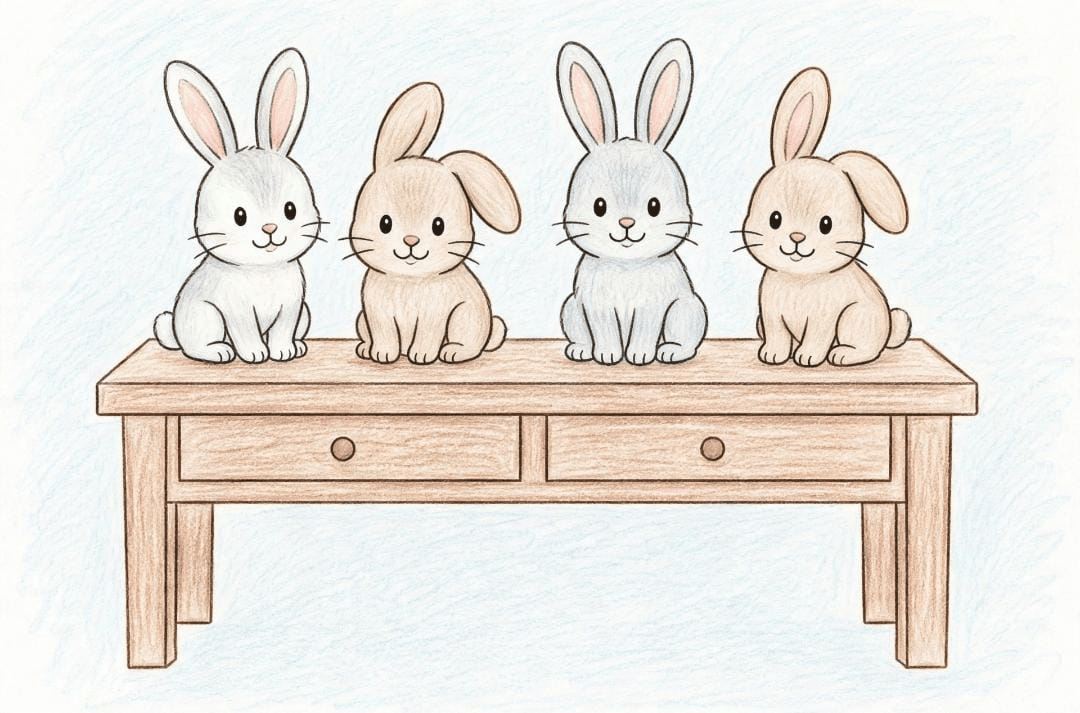
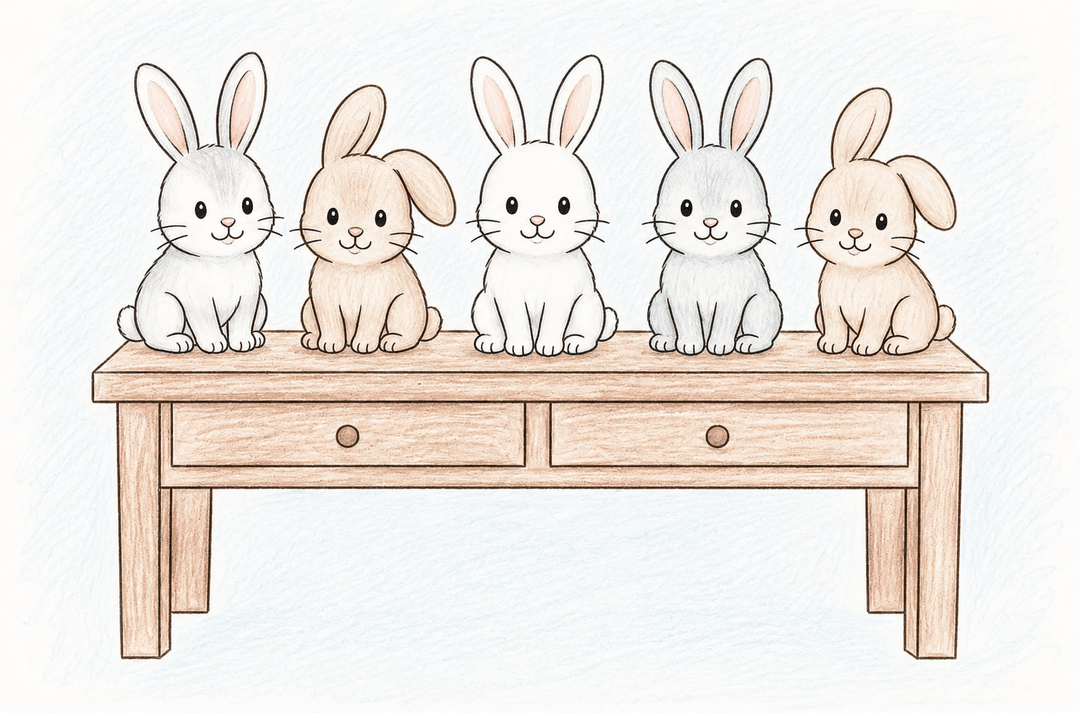
Conejos: la escena ahora tiene cinco y la respuesta pasa a FIVE (v1.40.2)
La nueva imagen coloreada del escritorio suma un conejo (cinco en total),
así que la oración correcta cambia de "THERE ARE FOUR RABBITS ON THE DESK"
a "THERE ARE FIVE RABBITS ON THE DESK".

Changed region(s): [[0.0611, 0.0309, 0.9167, 0.9565]]

diff --git a/src/data/grade1ThereIsThereAre.ts b/src/data/grade1ThereIsThereAre.ts
@@ -70,9 +70,9 @@ export const grade1ThereIsThereArePractices: Practice[] = [
         image: 'rabbits-desk',
         prompt: PROMPT,
         kind: 'sentence',
-        // El dibujo tiene CUATRO conejos (el documento decía "three", pero la
+        // El dibujo tiene CINCO conejos (el documento decía "three", pero la
         // respuesta tiene que coincidir con lo que ve el chico).
-        columns: sentence('THERE ARE', 'FOUR', 'RABBITS', 'ON', 'THE DESK'),
+        columns: sentence('THERE ARE', 'FIVE', 'RABBITS', 'ON', 'THE DESK'),
       },
       {
         id: 'tita4',
